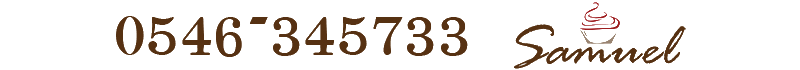
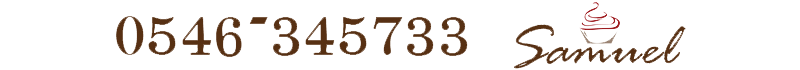
15.3.14

diff --git a/templates/zinnia/skeleton.html b/templates/zinnia/skeleton.html
@@ -34,7 +34,7 @@
             </ul>
 			<div id="logo">
                 <a href="{% url 'morsite.views.homepage' %}">
-                    <img src="{% static 'margarita/images/mor/upper_title1.jpg' %}" style="height:70px;" alt="LOGO">
+                    <img src="{% static 'margarita/images/mor/upper_title.png' %}" style="height:70px;" alt="LOGO">
                 </a>
 			</div>
 			<div id="navigation">
